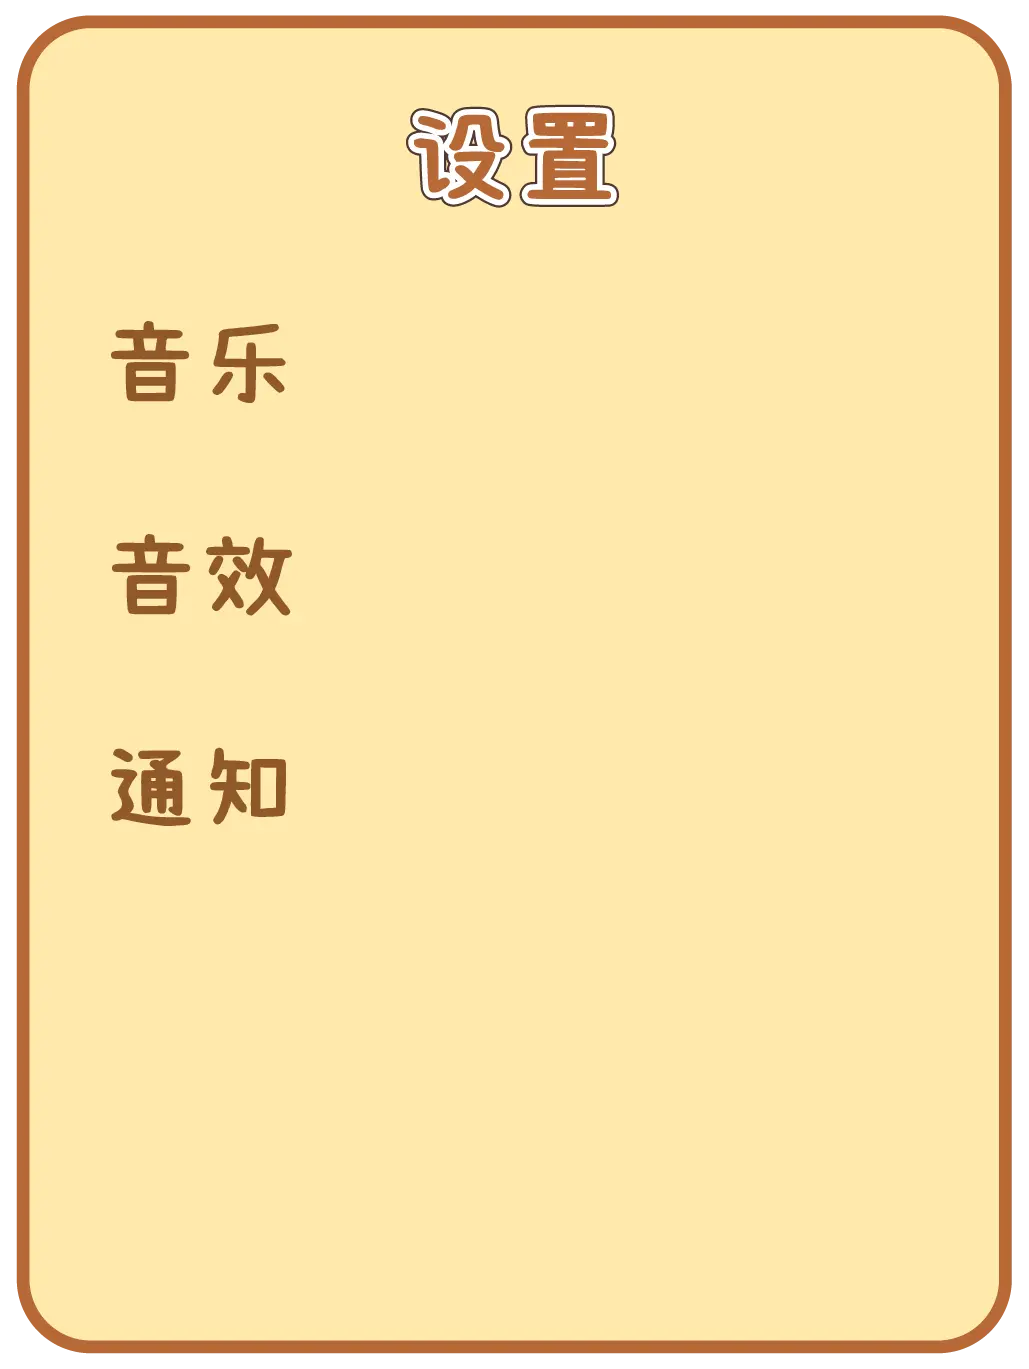
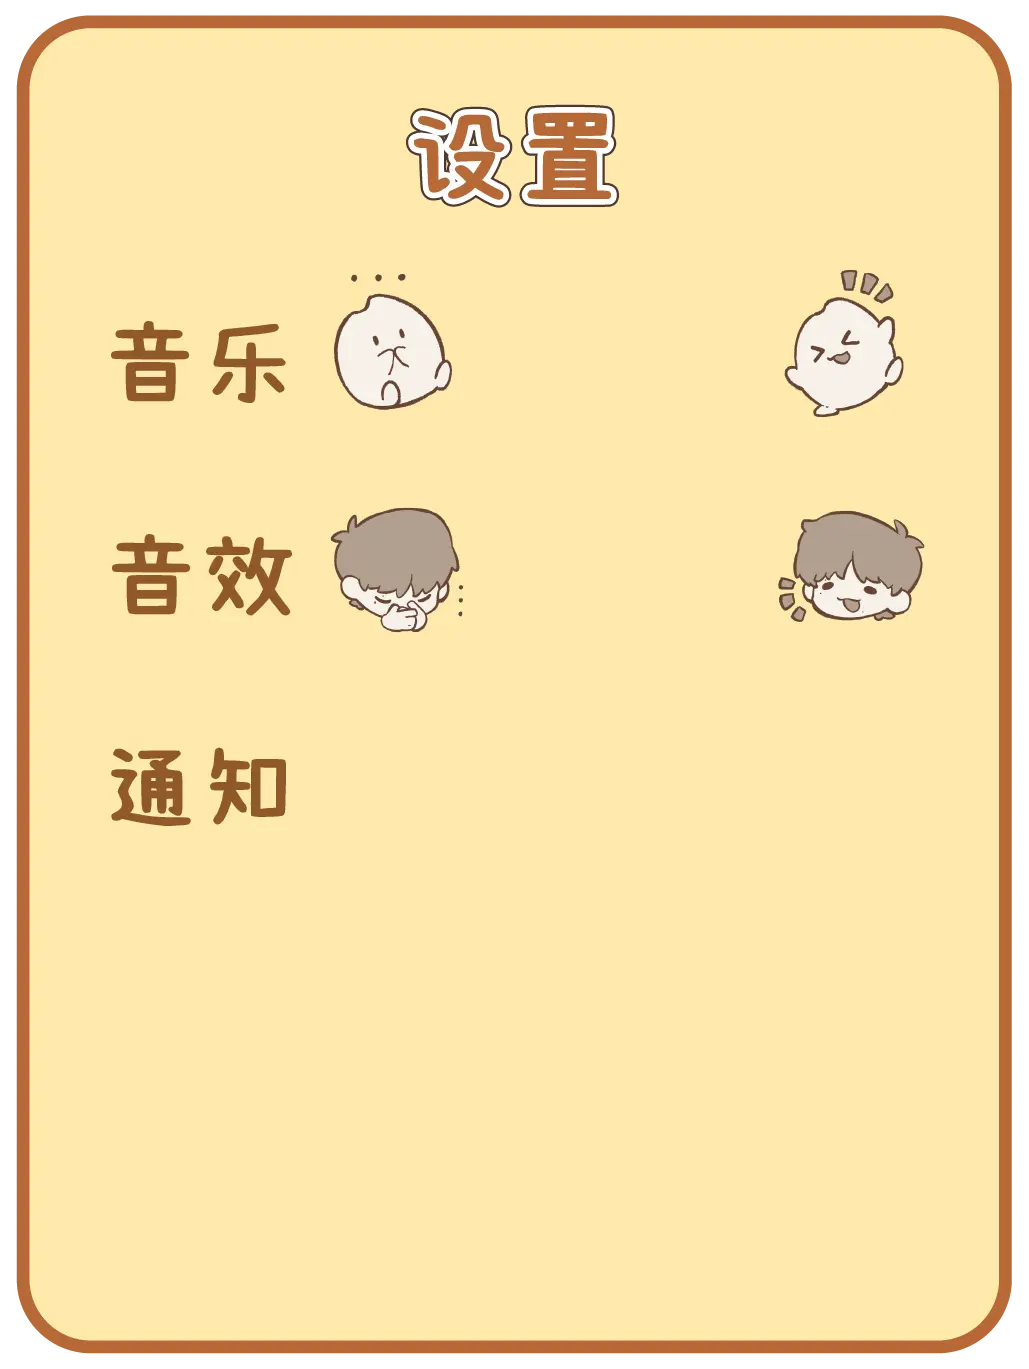
fix: settings ui; feat: star halo blinking

diff --git a/miniprogram/utils/asset-path.ts b/miniprogram/utils/asset-path.ts
@@ -25,6 +25,8 @@ export const ROOF_ASSETS = {
   pillRice: 'roof/pill-rice',
   star: 'roof/star',
   starRice: 'roof/star-rice',
+  /** 星星光晕贴图：垫在星星下层，与 pending 态 CSS 光晕（box-shadow）叠加 */
+  starGlow: 'roof/star-glow',
   magicHat: 'roof/magic-hat',
   pigeon: 'roof/pigeon',
   pigeonMail: 'roof/pigeon-mail',
@@ -187,6 +189,11 @@ export const SETTINGS_ASSETS = {
   toggleOn: 'settings/toggle-on',
   toggleOff: 'settings/toggle-off',
   userIdBar: 'settings/user-id-bar',
+  /** 通知开/关两个按钮常驻同显；-selected 选中态，-us(unselected) 未选中态 */
+  notifyOnSel: 'settings/notification-on-selected',
+  notifyOnUnsel: 'settings/notification-on-us',
+  notifyOffSel: 'settings/notification-off-selected',
+  notifyOffUnsel: 'settings/notification-off-us',
 } as const;
 
 export const HOME_IDLE_ASSETS: Record<(typeof GAME.IDLE_POSES)[number], string> = {

diff --git a/miniprogram/components/settings-modal/settings-modal.ts b/miniprogram/components/settings-modal/settings-modal.ts
@@ -26,6 +26,10 @@ Component({
       toggleOn: '',
       toggleOff: '',
       userIdBar: '',
+      notifyOnSel: '',
+      notifyOnUnsel: '',
+      notifyOffSel: '',
+      notifyOffUnsel: '',
     },
   },
 
@@ -75,9 +79,14 @@ Component({
     },
 
     /** TODO: 接订阅消息（wx.requestSubscribeMessage）；当前仅切换视觉状态，不持久化 */
-    onToggleNotify() {
+    onNotifyOn() {
       playTap();
-      this.setData({ notifyEnabled: !this.data.notifyEnabled });
+      if (!this.data.notifyEnabled) this.setData({ notifyEnabled: true });
+    },
+
+    onNotifyOff() {
+      playTap();
+      if (this.data.notifyEnabled) this.setData({ notifyEnabled: false });
     },
   },
 });

diff --git a/miniprogram/components/star-item/star-item.ts b/miniprogram/components/star-item/star-item.ts
@@ -4,6 +4,7 @@ Component({
     kind: { type: String, value: 'dropped' },
     type: { type: String, value: 'normal' },
     src: { type: String, value: '' },
+    glowSrc: { type: String, value: '' },
     left: { type: Number, value: 0 },
     top: { type: Number, value: 0 },
     rotate: { type: Number, value: 0 },
@@ -13,6 +14,14 @@ Component({
 
   data: {
     failed: false,
+    /** 闪烁动画随机相位（负延迟，初始即处于周期中任意点，避免整屏同步） */
+    glowDelay: 0,
+  },
+
+  lifetimes: {
+    attached() {
+      this.setData({ glowDelay: -Math.random() * 3 });
+    },
   },
 
   methods: {
